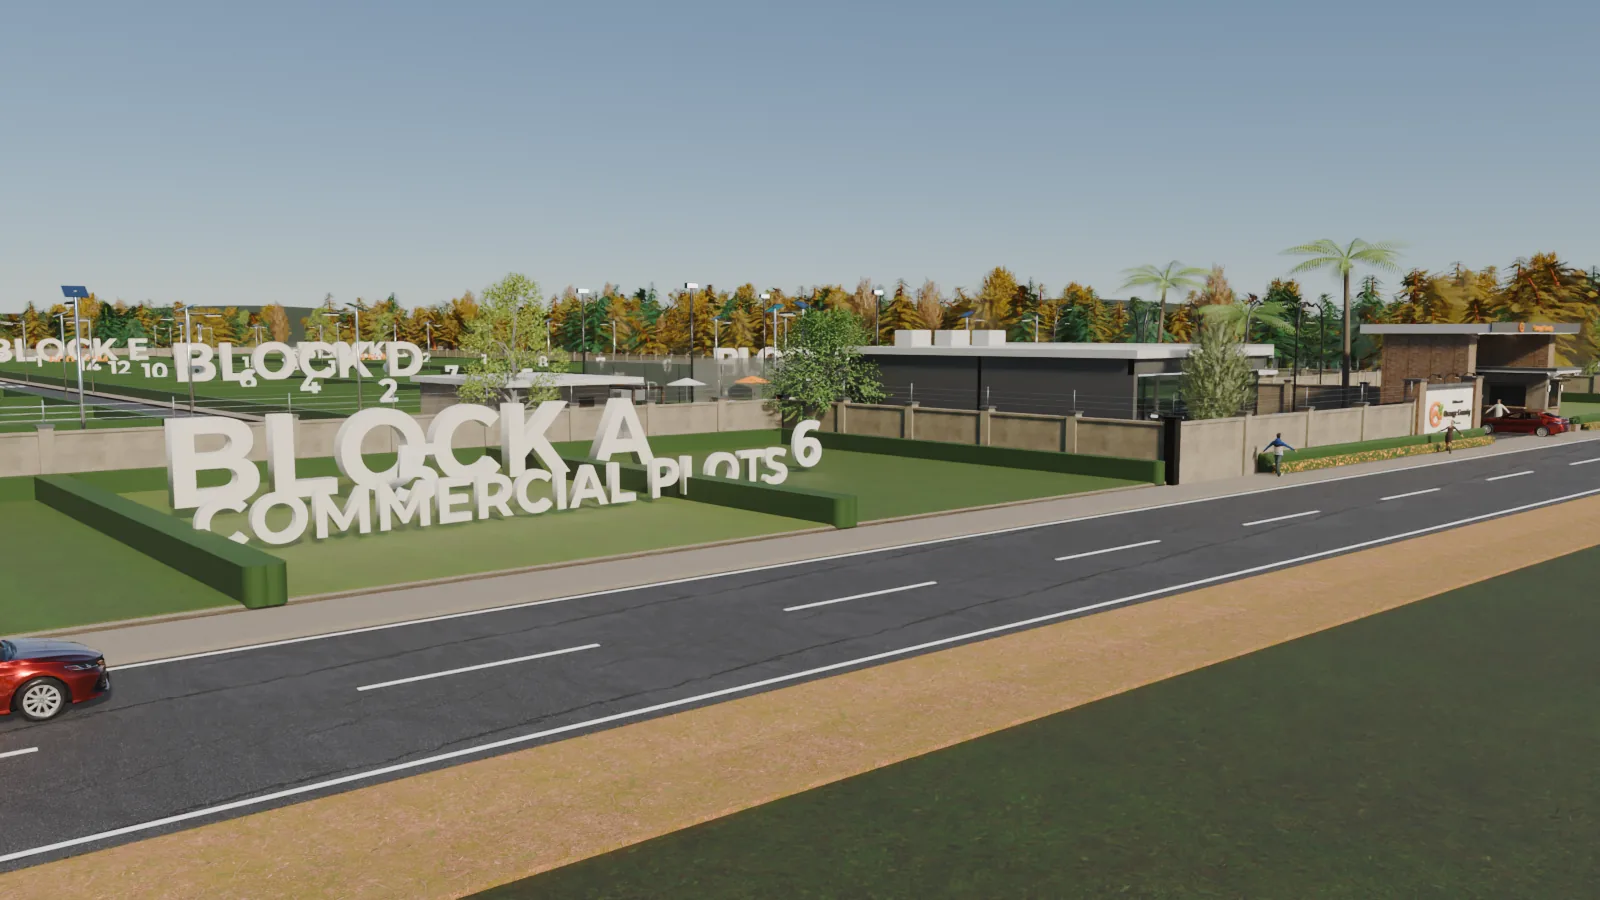
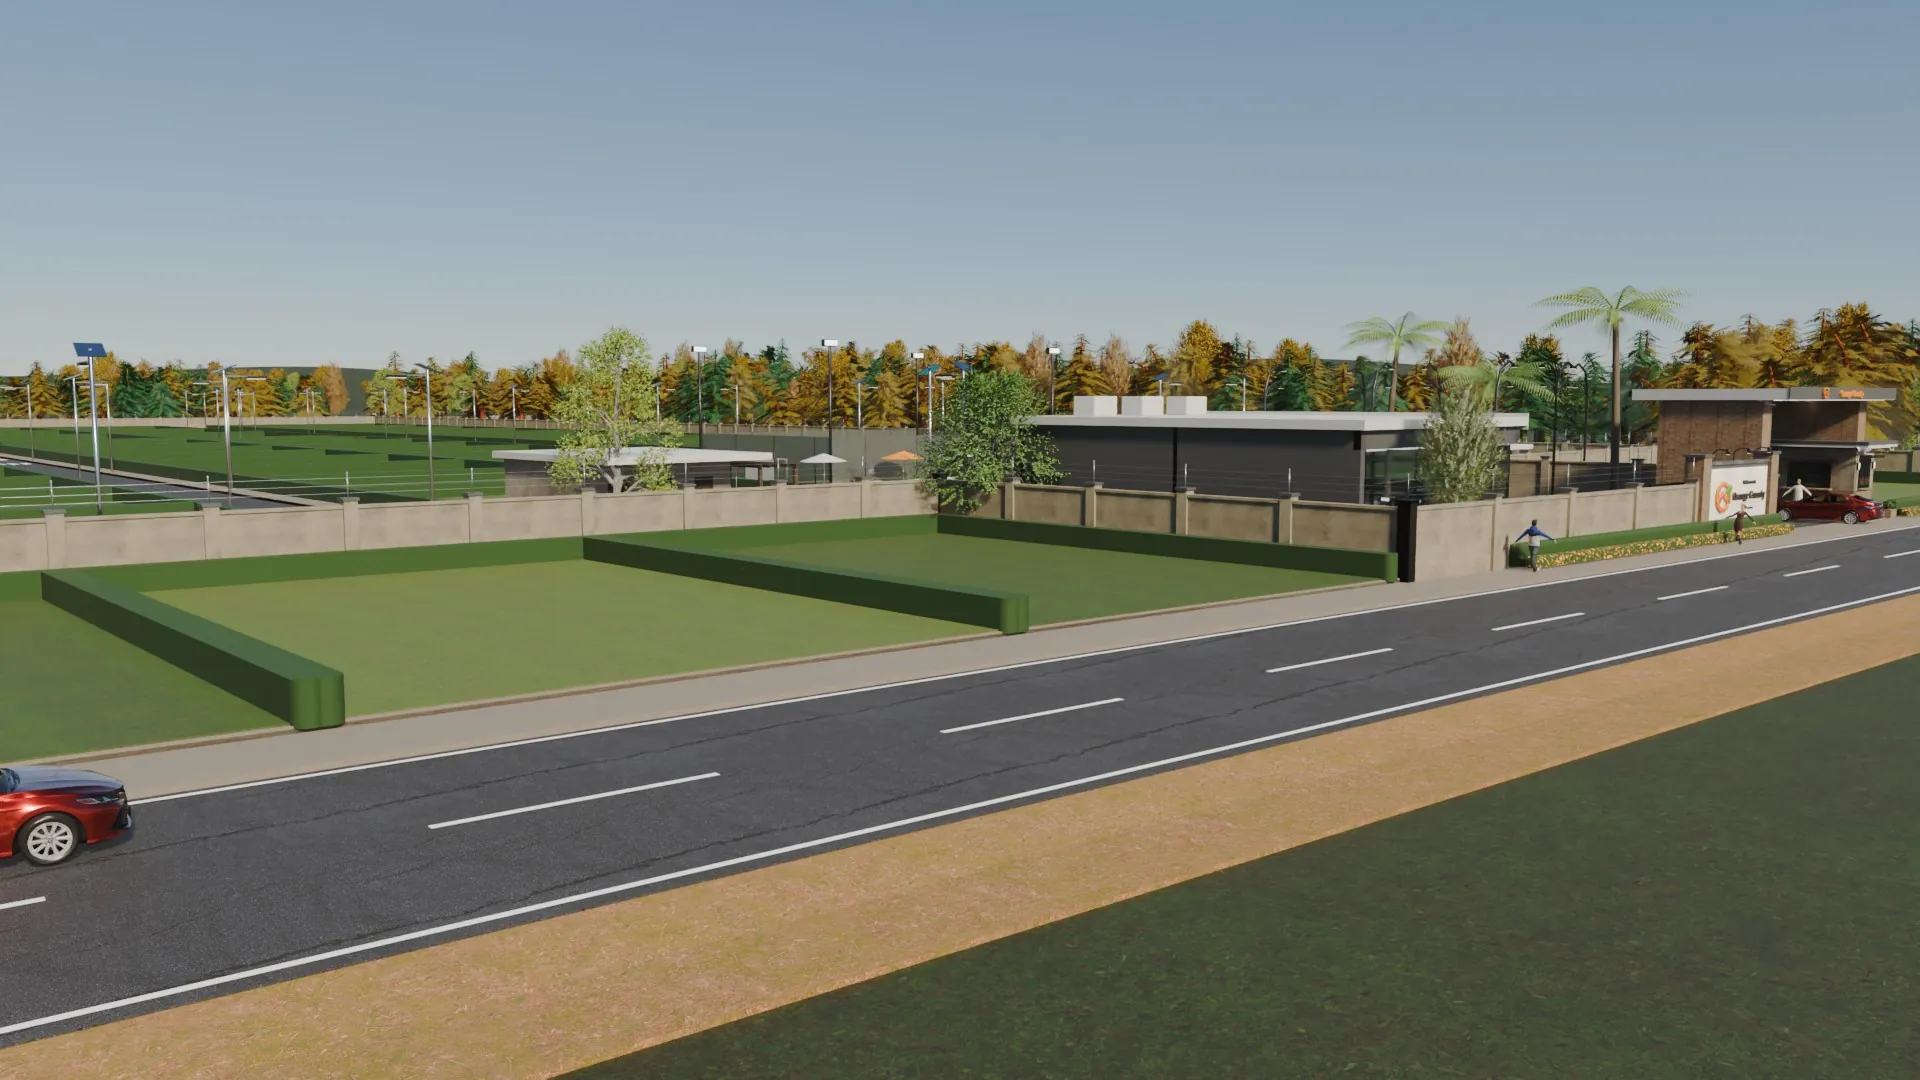
Epe: commercial plots without overlapping labels, gatehouse and lights shot
Claude-Session: https://claude.ai/code/session_01Dvu3qb77Fxr4eWSs1ttojN

diff --git a/content/estates.ts b/content/estates.ts
@@ -191,6 +191,7 @@ export const epe: Estate = {
       { src: "/images/epe-commercial-plots.webp", alt: "3D render of the commercial plots facing the expressway at Orange County, Epe" },
       { src: "/images/epe-feature-cctv.webp", alt: "3D render of CCTV on the gatehouse at Orange County, Epe" },
       { src: "/images/epe-street-lights.webp", alt: "3D render of solar street lights along the entrance road at Orange County, Epe" },
+      { src: "/images/epe-gatehouse-lights.webp", alt: "3D render of the gatehouse, its CCTV and the street lights at Orange County, Epe" },
       { src: "/images/epe-dusk-aerial.webp", alt: "3D render of Orange County, Epe, from the air at dusk" },
     ],
     film: unplaced(assets.film),

diff --git a/lib/blur.ts b/lib/blur.ts
@@ -50,8 +50,9 @@ export const TONE: Record<string, string> = {
   "epe-facility-gym": "#888a7b",
   "epe-facility-pitch": "#5b604c",
   "epe-facility-drainage": "#767b7c",
-  "epe-commercial-plots": "#7d7f75",
+  "epe-commercial-plots": "#797c71",
   "epe-aerial-clean": "#585c3a",
   "epe-dusk-aerial": "#37372c",
   "epe-street-lights": "#646969",
+  "epe-gatehouse-lights": "#6e7774",
 };
